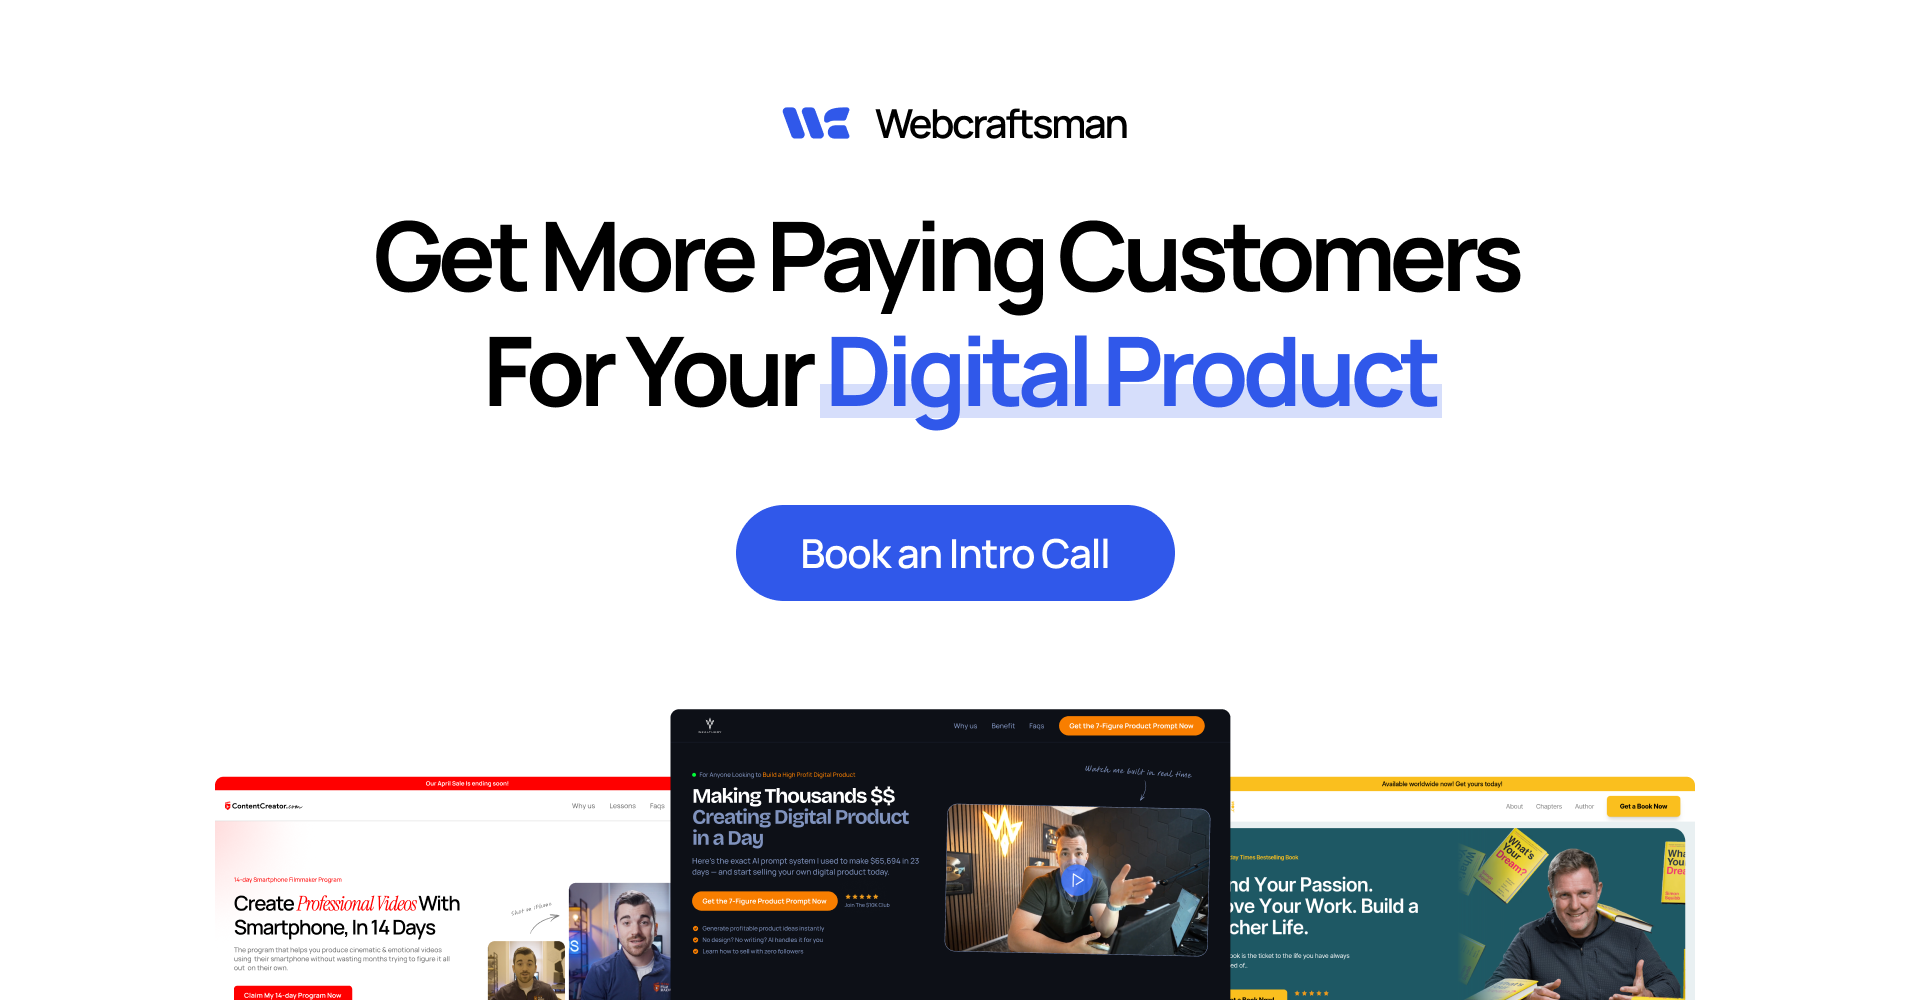
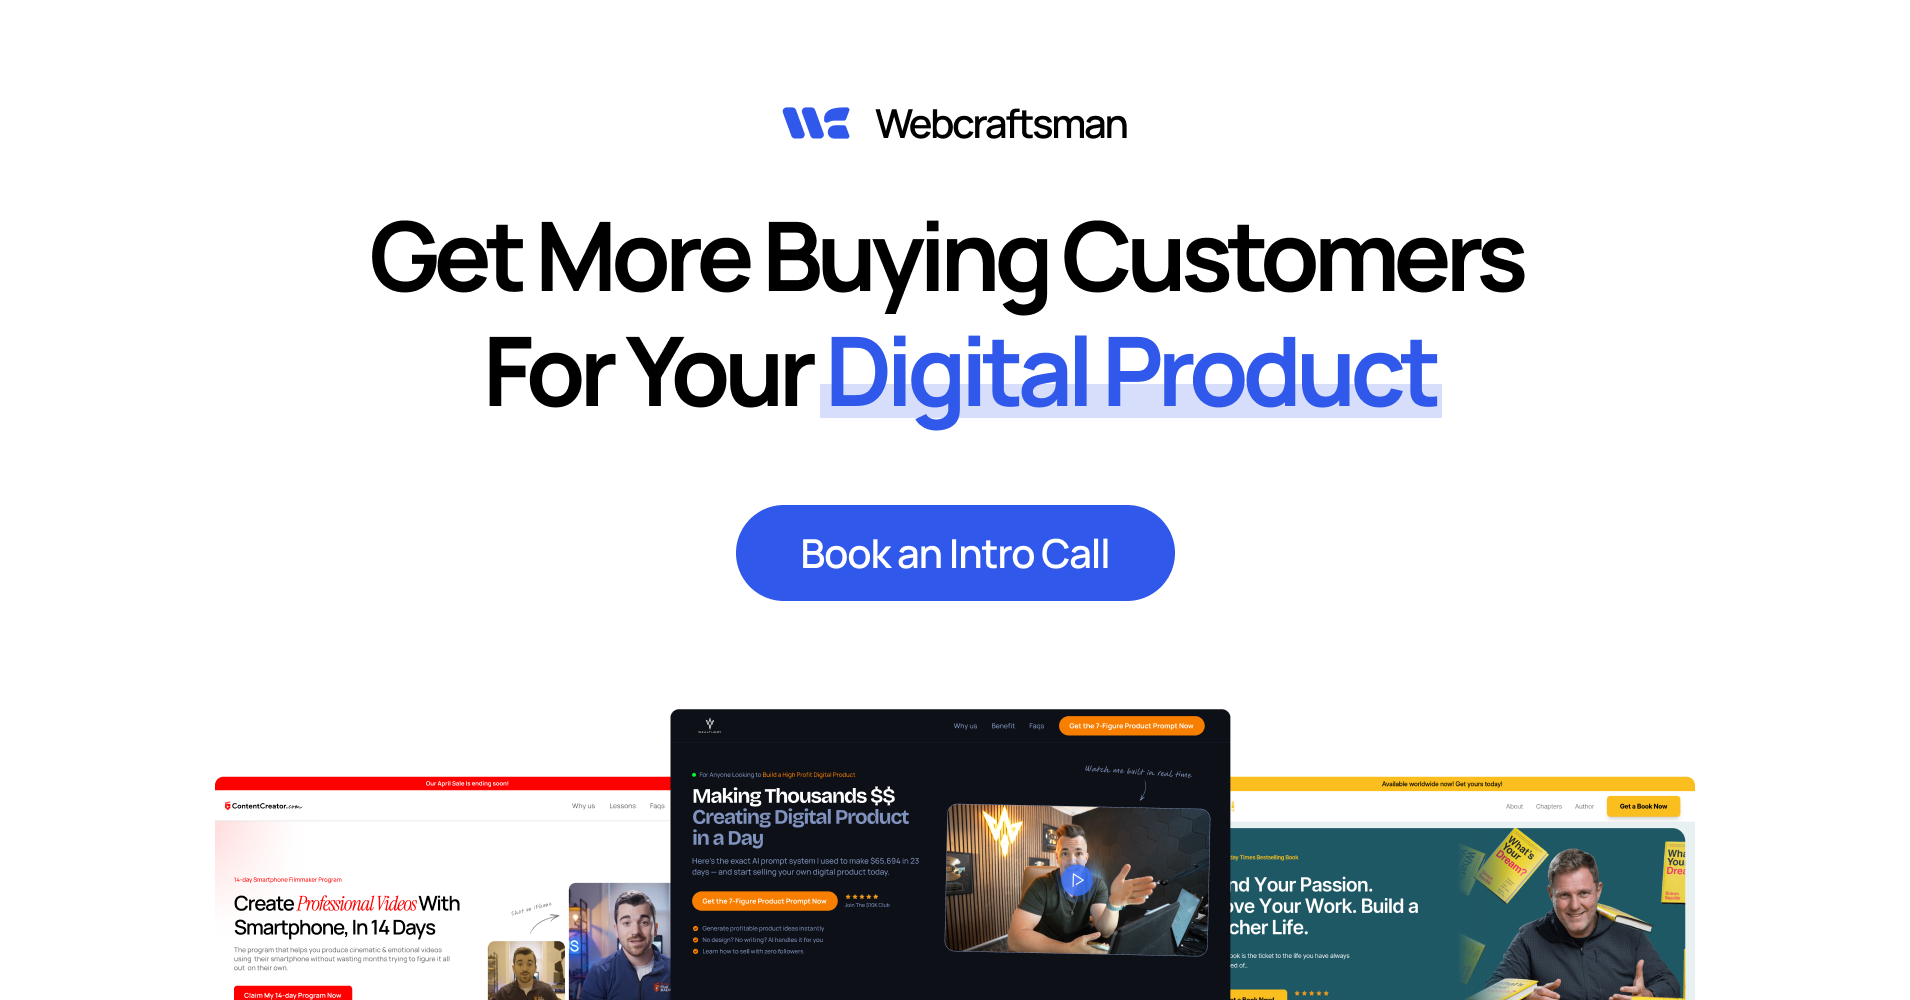
Fixes

Changed region(s): [[0.1853, 0.217, 0.8031, 0.31]]

diff --git a/src/app/page.tsx b/src/app/page.tsx
@@ -20,6 +20,7 @@ import AnimatedCartIcon from "@/Components/Icons/AnimatedCartIcon";
 import AnimatedCategoryIcon from "@/Components/Icons/AnimatedCategoryIcon";
 import AnimatedCheckIcon from "@/Components/Icons/AnimatedCheckIcon";
 import AnimatedSuccessIcon from "@/Components/Icons/AnimatedSeccessIcon";
+import AnimatedQuoteIcon from "@/Components/Icons/AnimatedQuoteIcon";
 
 const PLANS = [
   {
@@ -224,7 +225,7 @@ export default function Home() {
             threshold={0.2}
           >
             <h1 className="text-center ">
-              Get More Paying Customers <br /> For Your{" "}
+              Get More Buying Customers <br /> For Your{" "}
               <span className="inline-flex items-center gap-4">
                 <AnimatedCartIcon className="hidden md:block bg-primary rounded-full p-2" />
                 <span className={`highlight_text`}>
@@ -266,21 +267,21 @@ export default function Home() {
               alt="work"
               width={1000}
               height={1000}
-              className="w-full h-full object-cover object-top border border-neutral-200 group-hover:scale-105 duration-300 rounded md:rounded-lg scale-150 md:scale-100 -rotate-1 md:hover:scale-105"
+              className="w-full h-full object-cover object-top shadow group-hover:scale-105 duration-300 rounded md:rounded-lg scale-150 md:scale-100 -rotate-1 md:hover:scale-105"
             />
             <Image
               src="/showcase1.png"
               alt="work"
               width={1000}
               height={1000}
-              className="w-full h-full object-cover object-top border border-neutral-200 group-hover:scale-105 duration-300 rounded md:rounded-lg scale-200 md:scale-125 md:hover:-rotate-1 md:hover:scale-[1.3] z-10"
+              className="w-full h-full object-cover object-top shadow group-hover:scale-105 duration-300 rounded md:rounded-lg scale-200 md:scale-125 md:hover:-rotate-1 md:hover:scale-[1.3] z-10"
             />
             <Image
               src="/showcase3.png"
               alt="work"
               width={1000}
               height={1000}
-              className="w-full h-full object-cover object-top border border-neutral-200 group-hover:scale-105 duration-300 rounded md:rounded-lg scale-150 md:scale-100 rotate-1 md:hover:scale-105"
+              className="w-full h-full object-cover object-top shadow group-hover:scale-105 duration-300 rounded md:rounded-lg scale-150 md:scale-100 rotate-1 md:hover:scale-105"
             />
           </div>
         </div>
@@ -370,11 +371,11 @@ export default function Home() {
             scale={0.9}
             threshold={0.2}
           >
-            <h2 className="shaded text-center">
-              See Our{" "}
-              <span className="inline-flex items-center gap-4">
+            <h2 className="shaded text-center w-full inline-flex flex-col sm:flex-row items-center justify-center gap-4">
+              <span>See Our Recent</span>
+              <span className="inline-flex items-center gap-2 md:gap-4">
                 <AnimatedCategoryIcon className="bg-primary rounded-full p-2" />
-                <span className={`highlight_text`}>Recent Works</span>
+                <span className={`highlight_text`}>Projects</span>
               </span>
             </h2>
           </AnimatedContent>
@@ -401,14 +402,14 @@ export default function Home() {
             scale={0.9}
             threshold={0.2}
           >
-            <h2 className="shaded text-center">
-              <span className={`highlight_text`}>3 Easy Steps</span> To <br />
-              <span className="inline-flex flex-col sm:flex-row items-center gap-4">
-                Get Your{" "}
-                <span className="inline-flex items-center gap-4">
-                  <AnimatedTrendUpIcon className="bg-primary rounded-full p-2" />{" "}
-                  Growth
-                </span>
+            <h2 className="shaded text-center w-full inline-flex flex-col sm:flex-row items-center justify-center gap-4">
+              <span>
+                <span className={`highlight_text`}>3 Easy Steps</span> For{" "}
+              </span>
+              <span className="inline-flex items-center gap-2 md:gap-4">
+                Your{" "}
+                <AnimatedTrendUpIcon className="bg-primary rounded-full p-2" />{" "}
+                Growth
               </span>
             </h2>
           </AnimatedContent>
@@ -429,19 +430,32 @@ export default function Home() {
                 </ProcessItem>
               ))}
             </div>
-            {/* <div className="card !p-0 aspect-video md:h-full w-full !bg-primary rounded-3xl overflow-hidden">
-                <Image
-                  src="/workstation.jpg"
-                  alt="workstation"
-                  width={500}
-                  height={500}
-                  className=" object-cover w-full h-full"
-                />
-              </div> */}
-            {/* </div> */}
           </AnimatedContent>
         </section>
         <section className="flex flex-col items-center gap-8 !max-w-5xl">
+          <div className="pill">
+            <ShinyText text="Testimonial" speed={5} />
+          </div>
+          <AnimatedContent
+            distance={100}
+            direction="vertical"
+            initialOpacity={0.05}
+            animateOpacity
+            damping={10}
+            stiffness={50}
+            scale={0.9}
+            threshold={0.2}
+          >
+            <h2 className="shaded text-center w-full inline-flex flex-col sm:flex-row items-center justify-center gap-4">
+              <span>
+                What <span className={`highlight_text`}>Our Clients</span>
+              </span>
+              <span className="inline-flex items-center gap-2 md:gap-4">
+                <AnimatedQuoteIcon className="bg-primary rounded-full p-2" />{" "}
+                Say
+              </span>
+            </h2>
+          </AnimatedContent>
           <Image
             src="/DE_comparison.png"
             alt="Data Echooo Comparison"
@@ -456,13 +470,16 @@ export default function Home() {
             <MaterialSymbolsStarRounded className="text-(--accent-yellow)" />
             <MaterialSymbolsStarRounded className="text-(--accent-yellow)" />
           </div>
-          <h3 className="text-center md:!text-5xl leading-snug">
-            <span className="highlight_text">
-              They truly understood our branding
-            </span>
-            , making it not just beautiful but also clearly reflecting our
-            brand's identity
-          </h3>
+          <div className="text-center mb-8">
+            <h3 className=" md:!text-5xl mb-2 leading-snug">
+              "They truly understood our{" "}
+              <span className="highlight_text">branding</span>"
+            </h3>
+            <p>
+              Making it not just beautiful but also clearly reflecting our
+              brand's identity
+            </p>
+          </div>
           <div className="flex items-center gap-6">
             <div className="relative">
               <Image
@@ -500,33 +517,26 @@ export default function Home() {
             scale={0.9}
             threshold={0.2}
           >
-            <h2 className="shaded text-center">
-              <span className="inline-flex items-center gap-4">
-                <AnimatedCheckIcon className="hidden md:block" /> Choose a
-                Package That
+            <h2 className="shaded text-center w-full inline-flex flex-col items-center justify-center gap-4">
+              <span>
+                Choose a <span className={`highlight_text`}>Package</span>
               </span>
-              <br /> <span className={`highlight_text`}>Fits Your Needs</span>
+              <span className="inline-flex items-center gap-2 md:gap-4">
+                That
+                <AnimatedCheckIcon />
+                Right For You
+              </span>
             </h2>
           </AnimatedContent>
-          <AnimatedContent
-            distance={100}
-            direction="vertical"
-            animateOpacity
-            damping={10}
-            stiffness={50}
-            threshold={0.2}
-            delay={100}
-          >
-            <div className="grid grid-cols-1 md:grid-cols-3 gap-6 max-w-md md:max-w-full m-auto">
-              {PLANS.map((plan, index) => (
-                <PricingItem
-                  key={index}
-                  plan={plan}
-                  isHighlighted={plan.isHighlighted}
-                />
-              ))}
-            </div>
-          </AnimatedContent>
+          <div className="grid grid-cols-1 md:grid-cols-3 gap-6 max-w-md md:max-w-full m-auto">
+            {PLANS.map((plan, index) => (
+              <PricingItem
+                key={index}
+                plan={plan}
+                isHighlighted={plan.isHighlighted}
+              />
+            ))}
+          </div>
           {/* <div className="card w-full flex justify-between">
             <div>
               <h2 className="text-2xl font-semibold">
@@ -568,7 +578,7 @@ export default function Home() {
             >
               <h2>
                 <span className={`highlight_text`}>Answers</span> to Your
-                <span className="flex items-center gap-4">
+                <span className="flex items-center gap-2 md:gap-4">
                   <AnimatedQuestionIcon className="animate-bounce" />
                   Questions
                 </span>

diff --git a/src/Components/Footer.tsx b/src/Components/Footer.tsx
@@ -6,7 +6,7 @@ import AnimatedCalendarIcon from "./Icons/AnimatedCalendarIcon";
 import Logo from "./Icons/Logo";
 import { RevealLink } from "./RevealLink";
 
-const tagline = "Get More Paying Customers For Your Digital Product ";
+const tagline = "Get More Buying Customers For Your Digital Product ";
 
 export default function Footer() {
   return (
@@ -20,7 +20,7 @@ export default function Footer() {
             </div>
             Let's Get Started
           </div>
-          <div className="flex flex-col gap-4 px-16">
+          <div className="flex flex-col gap-4 px-8">
             <AnimatedContent
               distance={100}
               direction="vertical"
@@ -33,10 +33,12 @@ export default function Footer() {
             >
               <h2 className="!mb-0 !text-white text-center">
                 <span className="inline-flex items-center gap-4">
-                  <span className="inline-flex items-center gap-4">
-                    Book Your 30-min
-                    <AnimatedCalendarIcon className="hidden md:block" />
-                    Intro Call
+                  <span className="inline-flex flex-col md:flex-row items-center gap-2 md:gap-4">
+                    Book Your <span>30-min </span>
+                    <span className="inline-flex items-center gap-2 md:gap-4">
+                      <AnimatedCalendarIcon />
+                      Intro Call
+                    </span>
                   </span>
                 </span>
                 <span className="hidden md:inline-flex items-center gap-4">

diff --git a/src/Components/Icons/AnimatedQuoteIcon.tsx b/src/Components/Icons/AnimatedQuoteIcon.tsx
@@ -1,0 +1,30 @@
+"use client";
+
+import { useEffect, useRef } from "react";
+import { Player } from "@lordicon/react";
+
+const ICON = require("../../../public/animated_quote_icon.json");
+
+export default function AnimatedQuoteIcon(
+  props: React.HTMLAttributes<HTMLDivElement>
+) {
+  const playerRef = useRef<Player>(null);
+
+  useEffect(() => {
+              setTimeout(() => playerRef.current?.playFromBeginning(), 1000)
+;
+  }, []);
+
+  return (
+    <div {...props}>
+      <Player
+        ref={playerRef}
+        icon={ICON}
+        onComplete={() =>
+          setTimeout(() => playerRef.current?.playFromBeginning(), 1000)
+        }
+        size={40}
+      />
+    </div>
+  );
+}

diff --git a/src/app/global.ts b/src/app/global.ts
@@ -1,3 +1,3 @@
-export const tagline = "Get More Paying Customers For Your Digital Product"
+export const tagline = "Get More Buying Customers For Your Digital Product"
 export const description =
   "We help creators increase their digital products, online courses and membership programs sales with high-converting websites.";
